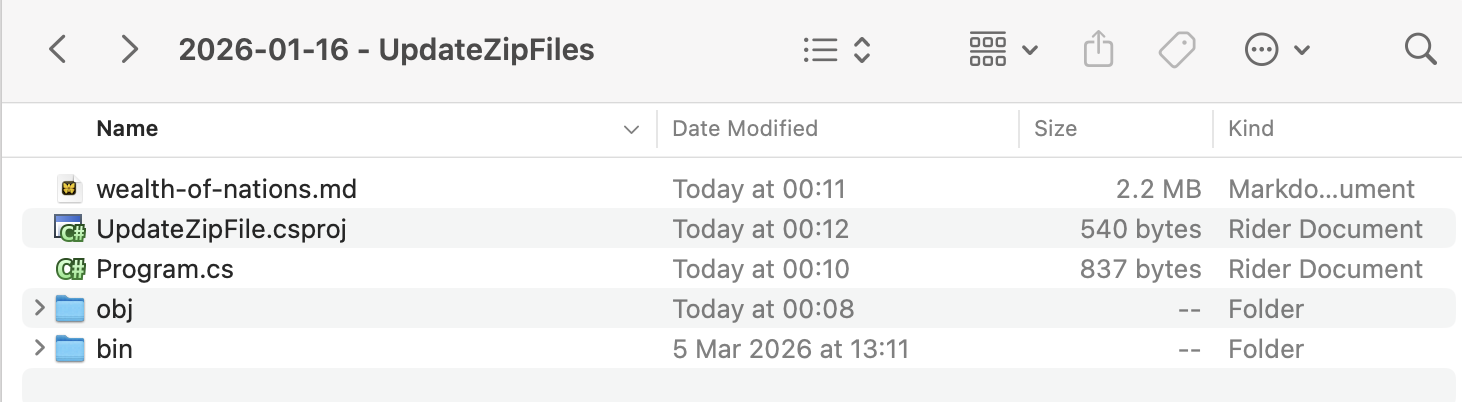
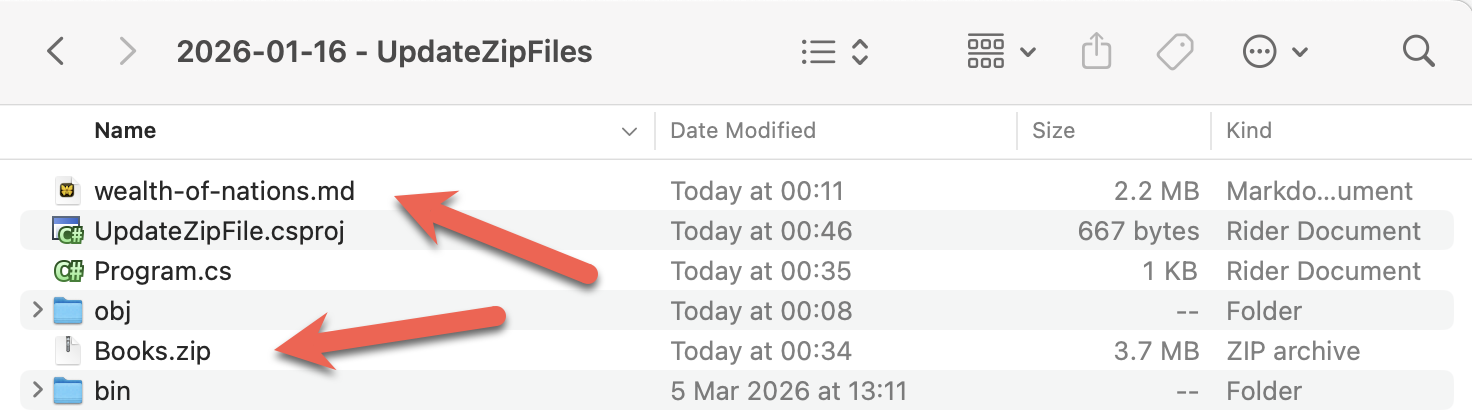
New post - Deleting A File From A Zip File In C# & .NET

diff --git a/_posts/2026-01-17-deleting-a-file-from-a-zip-file-in-c-net.md b/_posts/2026-01-17-deleting-a-file-from-a-zip-file-in-c-net.md
@@ -1,0 +1,84 @@
+---
+layout: post
+title: Deleting A File From A Zip File In C# & .NET
+date: 2026-01-17 00:44:07 +0300
+categories:
+    - C#
+    - .NET
+    - Compression
+---
+
+In our previous post, [Adding A File To A Zip File in C# & .NET]({% post_url 2026-01-16-adding-a-file-to-a-zip-file-in-c-net %}), we looked at how to add a new file to an existing `Zip` file archive.
+
+In this post, we will look at how to **delete** a file from a `Zip` file archive.
+
+In this project, we will use the `Zip` file generated in the **previous** post that has the file `wealth-of-nations.md` added.
+
+The project looks like this:
+
+![deleteFileProject](../images/2026/01/deleteFileProject.png)
+
+To ensure the `Books.zip` file is always copied to the output, we update the `.csproj` as follows:
+
+```xml
+<ItemGroup>
+  <None Include="Books\**\*">
+  	<CopyToOutputDirectory>PreserveNewest</CopyToOutputDirectory>
+  </None>
+</ItemGroup>
+```
+
+The code to delete the file is as follows:
+
+```c#
+using System.IO;
+using System.IO.Compression;
+using System.Reflection;
+using Serilog;
+
+Log.Logger = new LoggerConfiguration()
+    .WriteTo.Console().CreateLogger();
+
+// Extract the current folder where the executable is running
+var currentFolder = Path.GetDirectoryName(Assembly.GetExecutingAssembly().Location)!;
+
+// Construct the full path to the zip file
+var targetZipFile = Path.Combine(currentFolder, "Books.zip");
+
+// Set the filename
+const string fileName = "wealth-of-nations.md";
+
+// Open the zip file on disk for update
+await using (var archive = ZipFile.Open(targetZipFile, ZipArchiveMode.Update))
+{
+    // If the entry exists, delete it 
+    var entry = archive.GetEntry(fileName);
+    if (entry is not null)
+    {
+        entry.Delete();
+        Log.Information("Deleted {File} from {Target}", fileName, targetZipFile);
+    }
+    else
+    {
+        Log.Warning("Could not file {File} in archive", fileName);
+    }
+}
+```
+
+The heavy lifting here is done by the [Delete](https://learn.microsoft.com/en-us/dotnet/api/system.io.compression.ziparchiveentry.delete?view=net-10.0) method of the [ZipArchiveEntry](https://learn.microsoft.com/en-us/dotnet/api/system.io.compression.ziparchiveentry?view=net-10.0) class.
+
+We make use of the fact that the [GetEntry](https://learn.microsoft.com/en-us/dotnet/api/system.io.compression.ziparchive.getentry?view=net-10.0) method of the [ZipArchive](https://learn.microsoft.com/en-us/dotnet/api/system.io.compression.ziparchive?view=net-10.0) class will return a `ZipArchiveEntry` if the file you are looking for **exists**. Otherwise, it returns `null`.
+
+Once we have it, we call the `Delete` method.
+
+The program will print the following if it is successful.
+
+![deleteFileOutput](../images/2026/01/deleteFileOutput.png)
+
+### TLDR
+
+**To delete a file from a Zip archive, use the [Delete](https://learn.microsoft.com/en-us/dotnet/api/system.io.compression.ziparchiveentry.delete?view=net-10.0) method of the [ZipArchiveEntry](https://learn.microsoft.com/en-us/dotnet/api/system.io.compression.ziparchiveentry?view=net-10.0) class.**
+
+The code is in my GitHub.
+
+Happy hacking!

diff --git a/_posts/2026-01-16-adding-a-file-to-a-zip-file-in-c-net.md b/_posts/2026-01-16-adding-a-file-to-a-zip-file-in-c-net.md
@@ -20,13 +20,16 @@ Our project folder will look like this:
 
 ![addZipFile](../images/2026/01/addZipFile.png)
 
-To ensure the file `wealth-of-nations.md` is copied to the build folder, we update our `.csproj` by adding a new element as follows:
+To ensure the file `wealth-of-nations.md` as well as the Zip file are copied to the build folder, we update our `.csproj` by adding a new element as follows:
 
 ```xml
 <ItemGroup>
-    <None Include="wealth-of-nations.md">
-        <CopyToOutputDirectory>PreserveNewest</CopyToOutputDirectory>
-    </None>
+  <None Include="wealth-of-nations.md">
+  	<CopyToOutputDirectory>PreserveNewest</CopyToOutputDirectory>
+  </None>
+  <None Include="Books\**\*">
+  	<CopyToOutputDirectory>PreserveNewest</CopyToOutputDirectory>
+  </None>
 </ItemGroup>
 ```
 